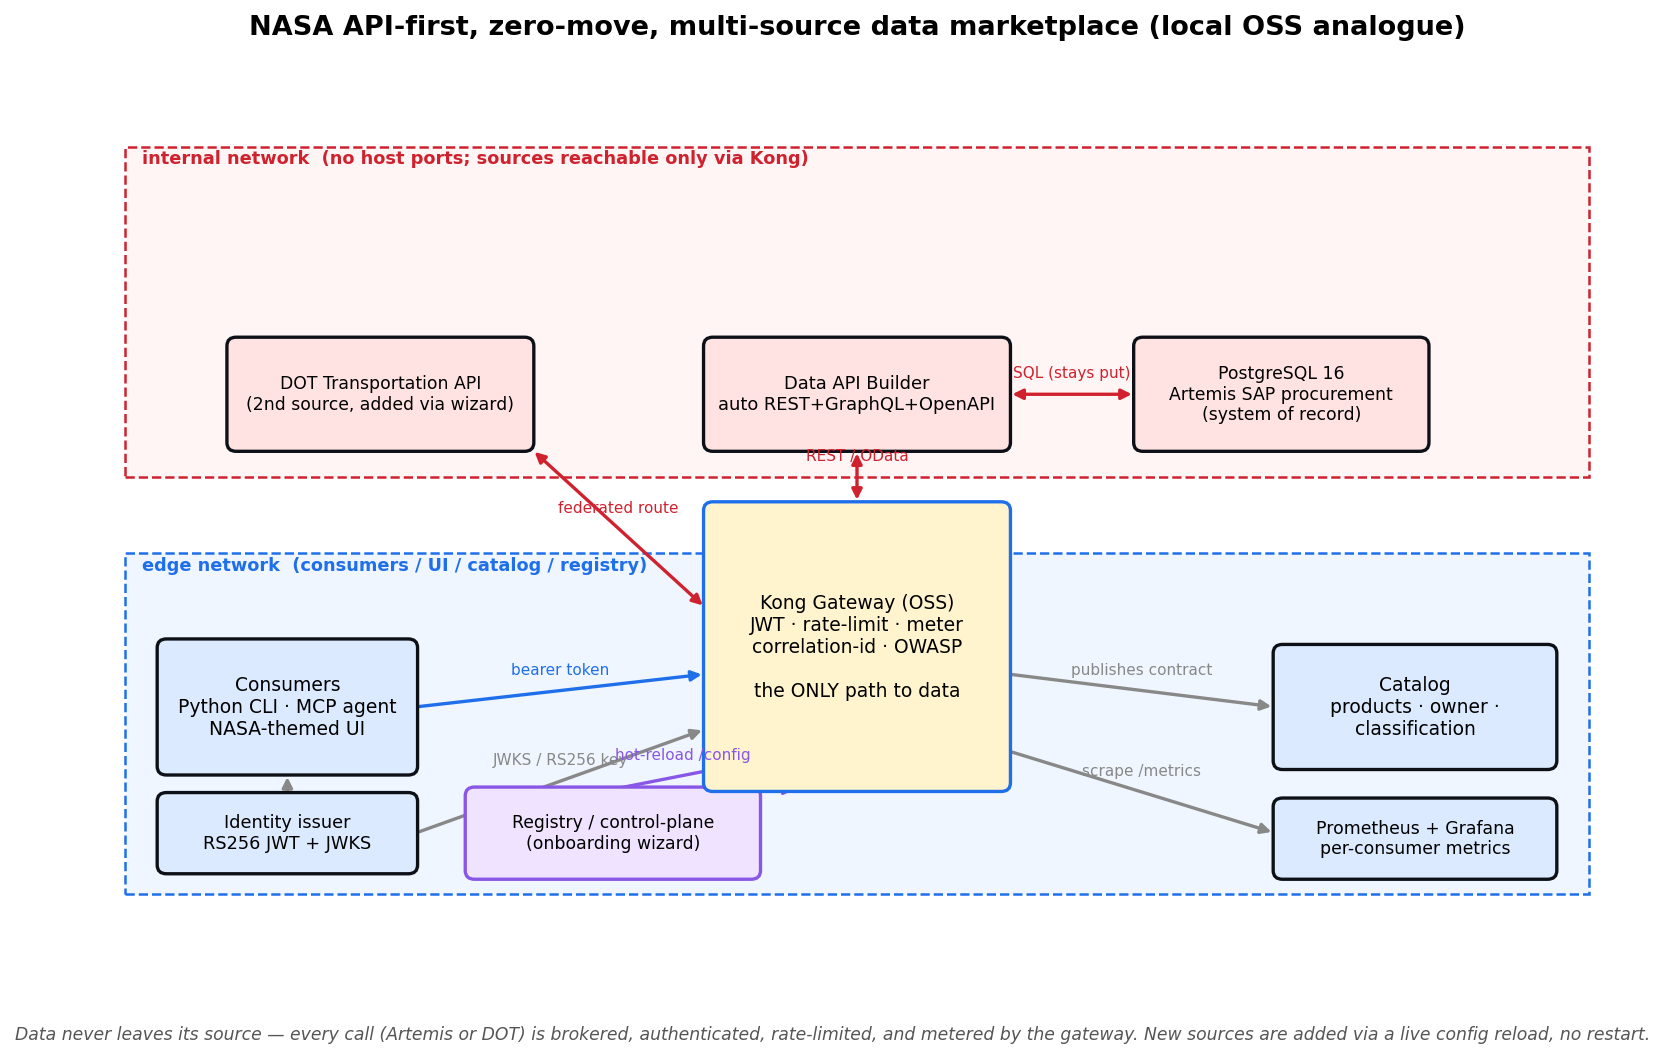
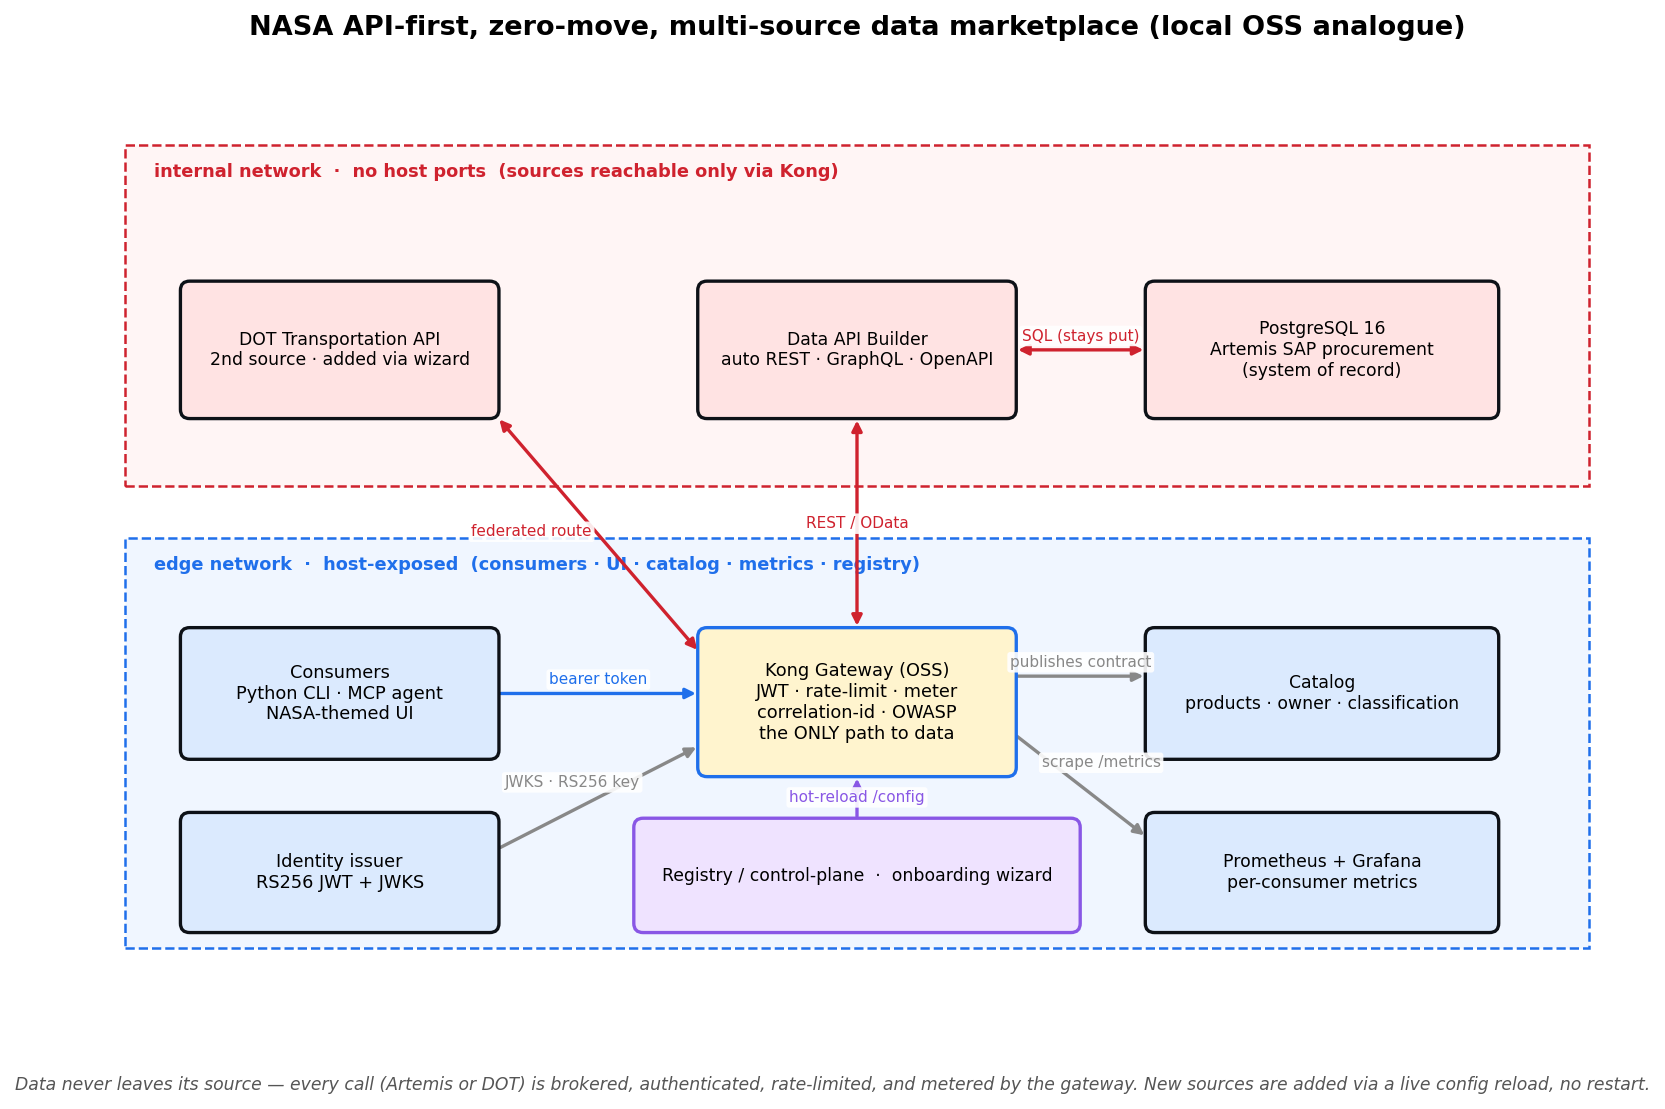
docs: rebuild architecture diagram on an aligned grid (#34)
* chore: keep agent config local; strip Claude references from published repo

Untrack CLAUDE.md and the .claude/ directory (now gitignored) so they stay
local and out of the customer-facing repo, and genericize the remaining
"Claude" mentions across docs, the Makefile, PRP.md, services, and tests:
build-tooling references are removed and MCP-host examples now read
"GitHub Copilot / Azure AI Foundry / any MCP host". Drops CLAUDE.md from the
test_no_fabric skip list (the local file still passes the scan).

* docs: rebuild architecture diagram on an aligned grid

Lay the zero-move reference diagram out as a clean grid (DAB directly above
Kong; DOT/DAB/Postgres in one aligned source row; Consumers-Identity, Kong-
Registry, and Catalog-Metrics each in their own column). Add white backgrounds
to arrow labels so nothing collides with the network-band borders, fixing the
prior overlap/alignment issues.

---------

diff --git a/scripts/gen-architecture-diagram.py b/scripts/gen-architecture-diagram.py
@@ -42,7 +42,7 @@ def box(ax, x, y, w, h, label, fill, edge=BOX, fontsize=9):
     ax.text(x + w / 2, y + h / 2, label, ha="center", va="center", fontsize=fontsize, zorder=4)
 
 
-def arrow(ax, x1, y1, x2, y2, label="", color="#444", style="-|>"):
+def arrow(ax, x1, y1, x2, y2, label="", color="#444", style="-|>", lx=None, ly=None):
     ax.annotate(
         "",
         xy=(x2, y2),
@@ -52,19 +52,25 @@ def arrow(ax, x1, y1, x2, y2, label="", color="#444", style="-|>"):
     )
     if label:
         ax.text(
-            (x1 + x2) / 2,
-            (y1 + y2) / 2 + 0.12,
+            lx if lx is not None else (x1 + x2) / 2,
+            ly if ly is not None else (y1 + y2) / 2 + 0.12,
             label,
             ha="center",
-            va="bottom",
+            va="center",
             fontsize=7.3,
             color=color,
-            zorder=5,
+            zorder=6,
+            bbox={
+                "boxstyle": "round,pad=0.18",
+                "facecolor": "white",
+                "edgecolor": "none",
+                "alpha": 0.9,
+            },
         )
 
 
 def main() -> int:
-    fig, ax = plt.subplots(figsize=(13, 7.6))
+    fig, ax = plt.subplots(figsize=(13, 8))
     ax.set_xlim(0, 13)
     ax.set_ylim(0, 8)
     ax.axis("off")
@@ -72,19 +78,19 @@ def main() -> int:
         "NASA API-first, zero-move, multi-source data marketplace (local OSS analogue)",
         fontsize=13,
         fontweight="bold",
-        pad=12,
+        pad=14,
     )
 
-    # bands
+    # --- network bands (edge below, internal above; Kong is the only bridge) ---
     ax.add_patch(
         mpatches.Rectangle(
-            (0.2, 0.4), 12.6, 3.1, facecolor="#f0f6ff", edgecolor=EDGE, lw=1.2, ls="--", zorder=0
+            (0.2, 0.35), 12.6, 3.55, facecolor="#f0f6ff", edgecolor=EDGE, lw=1.2, ls="--", zorder=0
         )
     )
     ax.text(
-        0.35,
-        3.34,
-        "edge network  (consumers / UI / catalog / registry)",
+        0.45,
+        3.62,
+        "edge network  ·  host-exposed  (consumers · UI · catalog · metrics · registry)",
         color=EDGE,
         fontsize=8.5,
         fontweight="bold",
@@ -92,9 +98,9 @@ def main() -> int:
     )
     ax.add_patch(
         mpatches.Rectangle(
-            (0.2, 4.2),
+            (0.2, 4.35),
             12.6,
-            3.0,
+            2.95,
             facecolor="#fff5f5",
             edgecolor=INTERNAL,
             lw=1.2,
@@ -103,106 +109,123 @@ def main() -> int:
         )
     )
     ax.text(
-        0.35,
-        7.05,
-        "internal network  (no host ports; sources reachable only via Kong)",
+        0.45,
+        7.02,
+        "internal network  ·  no host ports  (sources reachable only via Kong)",
         color=INTERNAL,
         fontsize=8.5,
         fontweight="bold",
         zorder=1,
     )
 
-    # edge boxes
-    box(ax, 0.5, 1.5, 2.2, 1.2, "Consumers\nPython CLI · MCP agent\nNASA-themed UI", FILL_EDGE)
-    box(ax, 0.5, 0.6, 2.2, 0.7, "Identity issuer\nRS256 JWT + JWKS", FILL_EDGE, fontsize=8.5)
-    box(ax, 10.1, 1.55, 2.4, 1.1, "Catalog\nproducts · owner ·\nclassification", FILL_EDGE)
+    # --- internal sources: one aligned row (DOT | DAB above Kong | Postgres) ---
+    SRC_Y, SRC_H = 4.95, 1.15
     box(
         ax,
-        10.1,
-        0.55,
-        2.4,
         0.7,
+        SRC_Y,
+        2.7,
+        SRC_H,
+        "DOT Transportation API\n2nd source · added via wizard",
+        FILL_INT,
+        fontsize=8.3,
+    )
+    box(
+        ax,
+        5.15,
+        SRC_Y,
+        2.7,
+        SRC_H,
+        "Data API Builder\nauto REST · GraphQL · OpenAPI",
+        FILL_INT,
+        fontsize=8.3,
+    )
+    box(
+        ax,
+        9.0,
+        SRC_Y,
+        3.0,
+        SRC_H,
+        "PostgreSQL 16\nArtemis SAP procurement\n(system of record)",
+        FILL_INT,
+        fontsize=8.3,
+    )
+
+    # --- edge boxes: left (consumers/identity) · center (Kong + registry) · right (catalog/metrics) ---
+    box(
+        ax,
+        0.7,
+        2.0,
+        2.7,
+        1.1,
+        "Consumers\nPython CLI · MCP agent\nNASA-themed UI",
+        FILL_EDGE,
+        fontsize=8.5,
+    )
+    box(ax, 0.7, 0.5, 2.7, 1.0, "Identity issuer\nRS256 JWT + JWKS", FILL_EDGE, fontsize=8.5)
+    box(
+        ax,
+        9.0,
+        2.0,
+        3.0,
+        1.1,
+        "Catalog\nproducts · owner · classification",
+        FILL_EDGE,
+        fontsize=8.3,
+    )
+    box(
+        ax,
+        9.0,
+        0.5,
+        3.0,
+        1.0,
         "Prometheus + Grafana\nper-consumer metrics",
         FILL_EDGE,
         fontsize=8.3,
     )
 
-    # control-plane (registry) — adds sources to the gateway at runtime
     box(
         ax,
-        3.15,
-        0.55,
-        2.5,
-        0.8,
-        "Registry / control-plane\n(onboarding wizard)",
+        5.15,
+        1.85,
+        2.7,
+        1.25,
+        "Kong Gateway (OSS)\nJWT · rate-limit · meter\ncorrelation-id · OWASP\nthe ONLY path to data",
+        FILL_GW,
+        edge=EDGE,
+        fontsize=8.5,
+    )
+    box(
+        ax,
+        4.6,
+        0.5,
+        3.8,
+        0.95,
+        "Registry / control-plane  ·  onboarding wizard",
         FILL_CTL,
         edge=CONTROL,
         fontsize=8.3,
     )
 
-    # gateway
-    box(
-        ax,
-        5.2,
-        1.35,
-        2.6,
-        2.6,
-        "Kong Gateway (OSS)\nJWT · rate-limit · meter\ncorrelation-id · OWASP\n\nthe ONLY path to data",
-        FILL_GW,
-        edge=EDGE,
-    )
-
-    # internal sources
-    box(
-        ax,
-        5.2,
-        4.45,
-        2.6,
-        1.0,
-        "Data API Builder\nauto REST+GraphQL+OpenAPI",
-        FILL_INT,
-        fontsize=8.6,
-    )
-    box(
-        ax,
-        8.9,
-        4.45,
-        2.5,
-        1.0,
-        "PostgreSQL 16\nArtemis SAP procurement\n(system of record)",
-        FILL_INT,
-        fontsize=8.3,
-    )
-    box(
-        ax,
-        1.1,
-        4.45,
-        2.6,
-        1.0,
-        "DOT Transportation API\n(2nd source, added via wizard)",
-        FILL_INT,
-        fontsize=8.3,
-    )
-
-    # arrows: consumers -> kong
-    arrow(ax, 2.7, 2.1, 5.2, 2.4, "bearer token", EDGE)
-    arrow(ax, 1.6, 1.3, 1.6, 1.5, "", "#888")
-    arrow(ax, 2.7, 0.95, 5.2, 1.9, "JWKS / RS256 key", "#888")
-    # kong <-> DAB <-> postgres
-    arrow(ax, 6.5, 3.95, 6.5, 4.45, "REST / OData", INTERNAL, style="<|-|>")
-    arrow(ax, 7.8, 4.95, 8.9, 4.95, "SQL (stays put)", INTERNAL, style="<|-|>")
-    # kong <-> DOT source (federated)
-    arrow(ax, 5.2, 3.0, 3.7, 4.45, "federated route", INTERNAL, style="<|-|>")
+    # --- arrows ---
+    # consumers -> kong (governed call)
+    arrow(ax, 3.4, 2.55, 5.15, 2.55, "bearer token", EDGE)
+    # identity -> kong (key material)
+    arrow(ax, 3.4, 1.2, 5.15, 2.1, "JWKS · RS256 key", "#888", lx=4.05, ly=1.78)
     # registry -> kong admin (hot reload)
-    arrow(ax, 5.65, 1.35, 6.0, 1.35, "", CONTROL)
-    arrow(ax, 4.4, 1.35, 5.6, 1.6, "hot-reload /config", CONTROL)
-    # kong -> catalog / metrics
-    arrow(ax, 7.8, 2.4, 10.1, 2.1, "publishes contract", "#888")
-    arrow(ax, 7.8, 1.7, 10.1, 0.95, "scrape /metrics", "#888")
+    arrow(ax, 6.5, 1.45, 6.5, 1.85, "hot-reload /config", CONTROL, lx=6.5, ly=1.65)
+    # kong <-> DAB <-> postgres (the zero-move data path)
+    arrow(ax, 6.5, 3.1, 6.5, 4.95, "REST / OData", INTERNAL, style="<|-|>", lx=6.5, ly=4.02)
+    arrow(ax, 7.85, 5.525, 9.0, 5.525, "SQL (stays put)", INTERNAL, style="<|-|>")
+    # kong <-> DOT (federated 2nd source)
+    arrow(ax, 5.15, 2.9, 3.4, 4.95, "federated route", INTERNAL, style="<|-|>", lx=3.7, ly=3.95)
+    # kong -> catalog / metrics (publishes contract, exposes /metrics)
+    arrow(ax, 7.85, 2.7, 9.0, 2.7, "publishes contract", "#888")
+    arrow(ax, 7.85, 2.2, 9.0, 1.3, "scrape /metrics", "#888", lx=8.6, ly=1.95)
 
     fig.text(
         0.5,
-        0.02,
+        0.025,
         "Data never leaves its source — every call (Artemis or DOT) is brokered, "
         "authenticated, rate-limited, and metered by the gateway. New sources are added "
         "via a live config reload, no restart.",